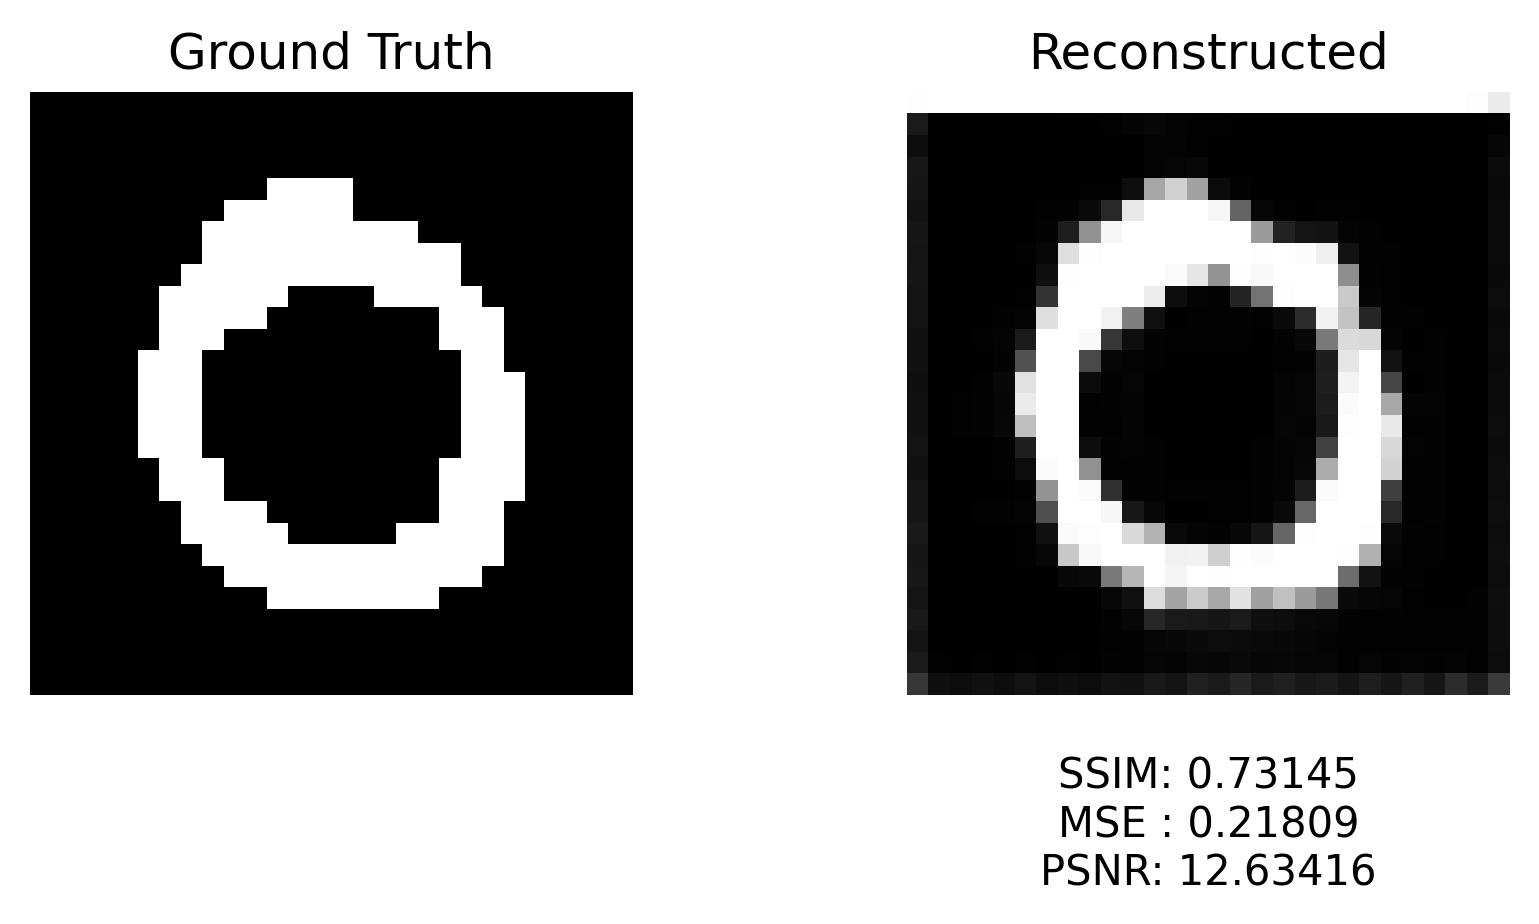
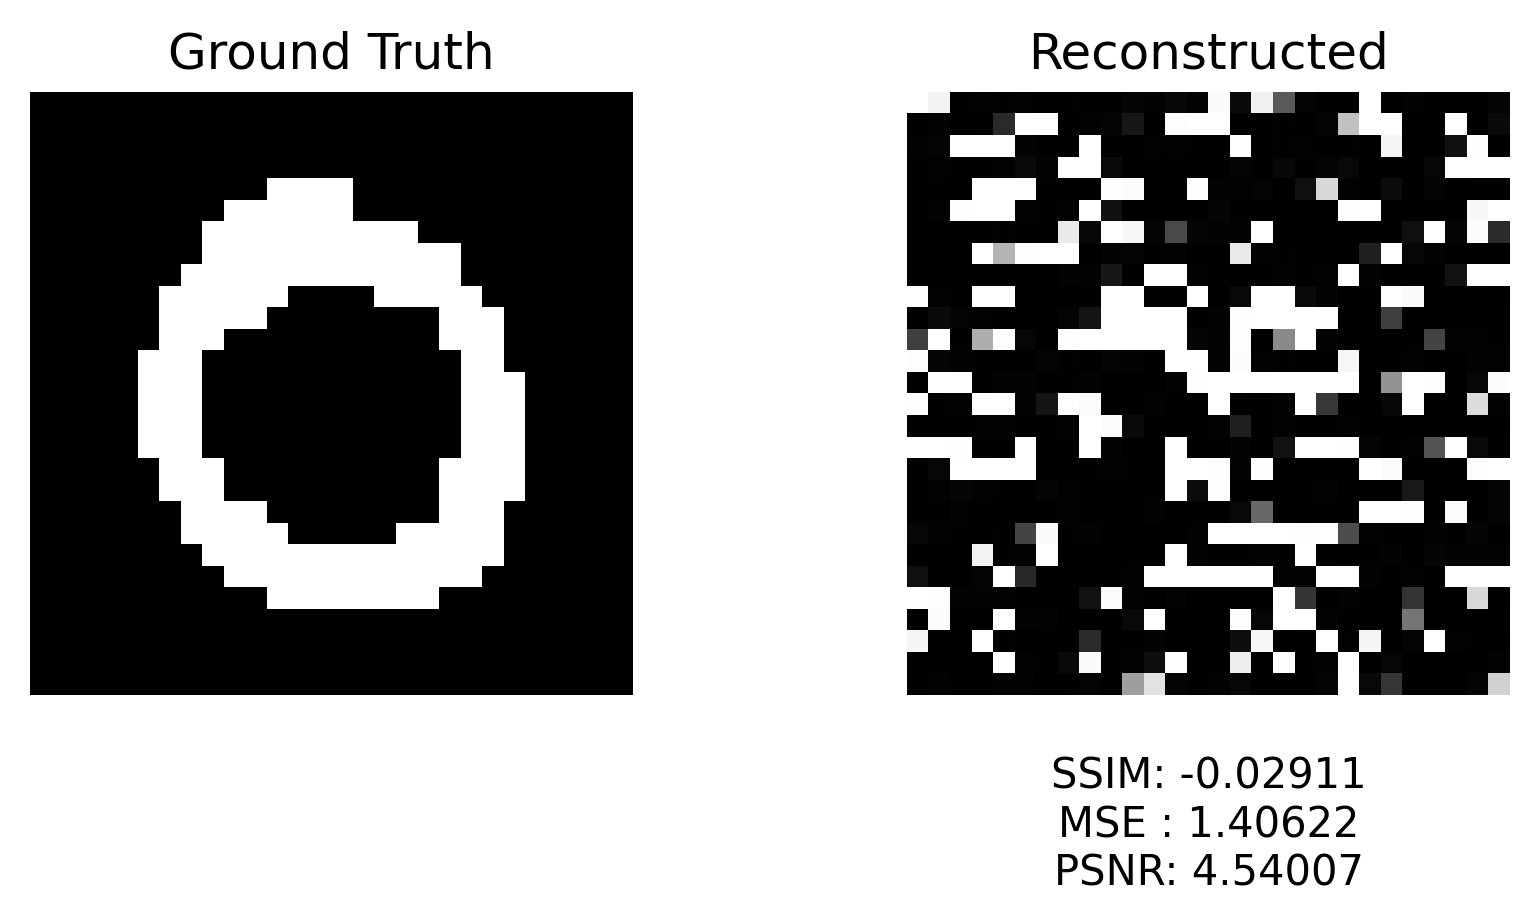
sim nonreverse completed

diff --git a/src/trainer.py b/src/trainer.py
@@ -21,6 +21,7 @@ from .utils.utils import (
     image_save,
     min_max_normalize,
     np_to_torch,
+    standardize,
     total_variation_loss,
 )
 
@@ -164,8 +165,10 @@ def train_gidc(collected_path, target_path, select, rand_select, scale):
         select=select,
         rand_select=rand_select,
     )
+    # S.shape: (28*28, 10000枚)
     print(f"speckle by random scaled by {scale}:", S.min(), S.max(), S.shape)
     print("Y_mnist range:", Y_mnist.min(), Y_mnist.max())
+    print("Y_mnist, Y_random:", Y_mnist.shape, Y_random.shape)
     X_mnist_first = img_reconstruction(S, Y_mnist)
     print("X_input:", X_mnist_first.min(), X_mnist_first.max(), X_mnist_first.shape)
     print("======================================")
@@ -232,8 +235,8 @@ def train_gidc(collected_path, target_path, select, rand_select, scale):
 def train_simulation(speckle_path, target_path, select, rand_select, scale):
     # =============================================
     num_epochs = 2000
-    lr = 0.05
-    TV_strength = 5e-8
+    lr = 0.1
+    TV_strength = 1e-9
     kernel_size = 3
     # =============================================
     if torch.cuda.is_available():
@@ -261,21 +264,23 @@ def train_simulation(speckle_path, target_path, select, rand_select, scale):
     S_ = np.load(speckle_npz)["arr_0"].reshape((784, 784))  # shape: (784枚, 28*28)
     print(S_.shape)
     # X.shape: (6020枚, 28*28)
-    Y_all = np.dot(X, S_.T)
-    print(Y_all.shape)
+    Y_all = np.dot(X, S_.T)  # Y_all.shape: (6020, 784)
+    print("Y_all shape:", Y_all.shape)
     Y_random, Y_mnist = simulated_signal(
-        signal=Y_all, select="both", rand_select="both"
+        signal=Y_all, select=select, rand_select=rand_select
     )
     print("Y_mnist, Y_random:", Y_mnist.shape, Y_random.shape)
     S = speckle_pred_simulate(
         path_x=target_path, Y_all=Y_all, select=select, rand_select=rand_select
     )
-    X_mnist_first = img_reconstruction(S.T, Y_mnist)
+    print(f"speckle by random scaled by {scale}:", S.min(), S.max(), S.shape)
+    print("Y_mnist range:", Y_mnist.min(), Y_mnist.max())
+    X_mnist_first = img_reconstruction(S, Y_mnist)
     print("X_first:", X_mnist_first.shape)
     # plt.imshow(X_mnist_first[1].reshape((28, -1)))
     # plt.show()
     print("======================================")
-    S_tensor = (np_to_torch(S.T).float()).to(device)
+    S_tensor = (np_to_torch(S).float()).to(device)
     print("S_tensor:", S_tensor.min(), S_tensor.max())
     Y_mnist_tensor = np_to_torch(Y_mnist).float()
     X_input_tensor = np_to_torch(X_mnist_first).float()
@@ -284,10 +289,10 @@ def train_simulation(speckle_path, target_path, select, rand_select, scale):
 
     for num in range(10):
         print(f"\n================ Image {num} の学習開始 ================\n")
-        input = min_max_normalize(X_input_tensor[num].reshape((1, 1, 28, 28))).to(
-            device
-        )
-        # input = standardize(X_input_tensor[num].reshape((1, 1, 28, 28))).to(device)
+        # input = min_max_normalize(X_input_tensor[num].reshape((1, 1, 28, 28))).to(
+        #     device
+        # )
+        input = standardize(X_input_tensor[num].reshape((1, 1, 28, 28))).to(device)
         print("input:", X_input_tensor.min(), X_input_tensor.max())
         print("Y_mnist_tensor:", Y_mnist_tensor.min(), Y_mnist_tensor.max())
         y_ = Y_mnist_tensor[num].to(device)

diff --git a/main.py b/main.py
@@ -16,15 +16,15 @@ def main():
     # reconstructed = train_gidc(
     #     collected_path=file_y,
     #     target_path=file_x,
-    #     select="both",
-    #     rand_select="both",
+    #     select="white",
+    #     rand_select="white",
     #     scale=1,
     # )
     train_simulation(
         speckle_path=file_s,
         target_path=file_x,
         select="black",
-        rand_select="both",
+        rand_select="black",
         scale=1,
     )
     # reconstructed = train_random_supervised(

diff --git a/src/dataset/process.py b/src/dataset/process.py
@@ -117,7 +117,7 @@ def collected_signal(path, select="both", rand_select="both"):
 def simulated_signal(signal, select="both", rand_select="both"):
     """
     params:
-    signal: X, S.T の積(6020, 784)
+    signal: X, S_.T の積(6020, 784)
     select:str :
         both: 差分を取った画像を出力
         white: 白文字画像出力

diff --git a/src/dataset/speckle_pred.py b/src/dataset/speckle_pred.py
@@ -17,4 +17,4 @@ def speckle_pred_simulate(path_x, Y_all, select, rand_select):
     X_random, _ = target_image(path=path_x, select=select, rand_select=rand_select)
     X_pinv = np.linalg.pinv(X_random)
     S = np.dot(X_pinv, Y_random)
-    return S.T
+    return S
